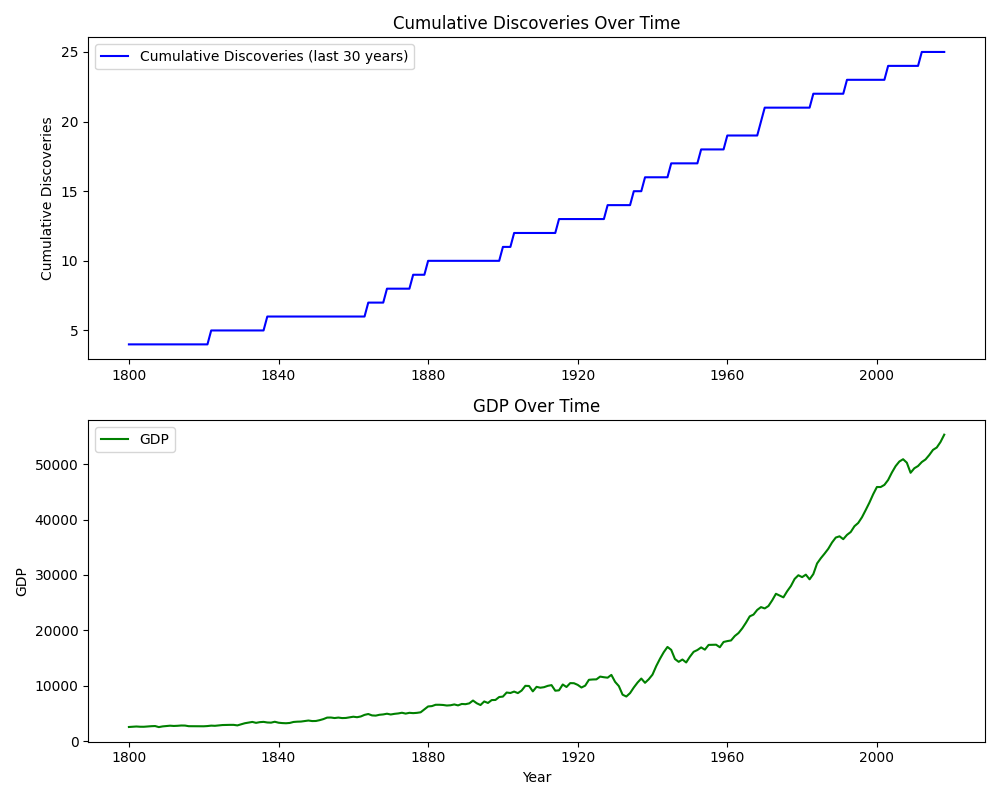
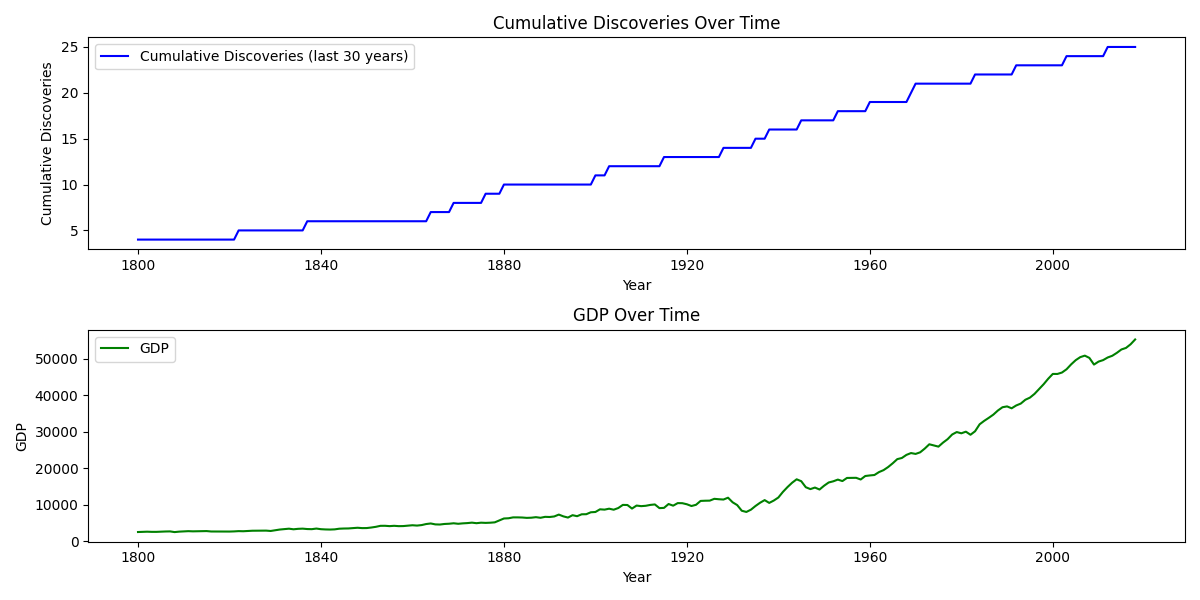
Fixes to analyze and visualize data

diff --git a/src/analyze_data.py b/src/analyze_data.py
@@ -1,59 +1,43 @@
-# src/visualize_data.py
 import pandas as pd
-import matplotlib.pyplot as plt
-import seaborn as sns
+from app import app, db, Discovery, EconomicData
 
-def visualize():
-    # Load the data
-    cumulative_discoveries = pd.read_csv('cumulative_discoveries.csv', index_col=0, parse_dates=True)
-    gdp_data = pd.read_excel('mpd2020.xlsx', sheet_name='Full data')
-    gdp_per_year = gdp_data.set_index('year')['gdppc']
+def analyze():
+    with app.app_context():
+        # Fetch data from the database
+        discoveries_query = db.session.query(Discovery).statement
+        economic_data_query = db.session.query(EconomicData).statement
 
-    # Debug prints
-    print("Cumulative Discoveries:")
-    print(cumulative_discoveries.head())
-    print("GDP Per Year:")
-    print(gdp_per_year.head())
+        discoveries = pd.read_sql(discoveries_query, db.engine)
+        economic_data = pd.read_sql(economic_data_query, db.engine)
 
-    # Align datasets
-    combined_data = pd.merge(cumulative_discoveries, gdp_per_year, left_index=True, right_index=True, how='inner')
-    combined_data.columns = ['cumulative_discoveries', 'gdp']
-    
-    # Debug print combined data
-    print("Combined Data:")
-    print(combined_data.head())
+        # Ensure date formats are consistent
+        discoveries['date'] = pd.to_datetime(discoveries['date'], errors='coerce').dropna()
+        economic_data['year'] = pd.to_datetime(economic_data['year'], format='%Y')
 
-    # Visualization
-    plt.figure(figsize=(12, 6))
+        # Calculate cumulative discoveries over the past 30 years
+        discoveries['year'] = discoveries['date'].dt.year
+        cumulative_discoveries = discoveries.groupby('year').size().rolling(window=30, min_periods=1).sum()
 
-    # Plot cumulative discoveries
-    plt.subplot(2, 1, 1)
-    plt.plot(combined_data['cumulative_discoveries'], label='Cumulative Discoveries (last 30 years)', color='blue')
-    plt.title('Cumulative Discoveries Over Time')
-    plt.xlabel('Year')
-    plt.ylabel('Cumulative Discoveries')
-    plt.legend()
+        # Align cumulative discoveries with GDP data
+        gdp_per_year = economic_data.set_index('year')['gdp']
+        cumulative_discoveries.index = pd.to_datetime(cumulative_discoveries.index, format='%Y')
+        gdp_per_year.index = pd.to_datetime(gdp_per_year.index, format='%Y')
+        
+        cumulative_discoveries = cumulative_discoveries.reindex(gdp_per_year.index, method='ffill').fillna(0)
 
-    # Plot GDP
-    plt.subplot(2, 1, 2)
-    plt.plot(combined_data['gdp'], label='GDP', color='green')
-    plt.title('GDP Over Time')
-    plt.xlabel('Year')
-    plt.ylabel('GDP')
-    plt.legend()
+        # Debug: Print correlation calculation inputs
+        print("\nCumulative Discoveries (last 30 years) per year:")
+        print(cumulative_discoveries)
 
-    plt.tight_layout()
-    plt.savefig('discoveries_and_gdp_over_time.png')
-    plt.show()
+        print("\nGDP per year:")
+        print(gdp_per_year)
 
-    # Scatter plot for correlation
-    plt.figure(figsize=(8, 6))
-    sns.scatterplot(x=combined_data['cumulative_discoveries'], y=combined_data['gdp'])
-    plt.title('Correlation between Cumulative Discoveries and GDP')
-    plt.xlabel('Cumulative Discoveries (last 30 years)')
-    plt.ylabel('GDP')
-    plt.savefig('correlation_scatter_plot.png')
-    plt.show()
+        # Calculate correlation
+        correlation = cumulative_discoveries.corr(gdp_per_year)
+        print(f"\nCorrelation between cumulative discoveries (last 30 years) and GDP: {correlation:.2f}")
+
+        # Save results to CSV for further inspection
+        cumulative_discoveries.to_csv('cumulative_discoveries.csv', header=['cumulative_discoveries'])
 
 if __name__ == '__main__':
-    visualize()
+    analyze()

diff --git a/src/visualize_data.py b/src/visualize_data.py
@@ -1,5 +1,3 @@
-# visualize_data.py
-
 import pandas as pd
 import matplotlib.pyplot as plt
 import statsmodels.api as sm
@@ -12,7 +10,30 @@ def visualize():
     # Merge datasets on the date/year
     combined = discoveries.merge(gdp_per_year, left_index=True, right_index=True, how='inner')
 
-    # Create scatter plot
+    # Visualization 1: Cumulative Discoveries and GDP Over Time
+    plt.figure(figsize=(12, 6))
+
+    # Plot cumulative discoveries
+    plt.subplot(2, 1, 1)
+    plt.plot(combined.index, combined['cumulative_discoveries'], label='Cumulative Discoveries (last 30 years)', color='blue')
+    plt.title('Cumulative Discoveries Over Time')
+    plt.xlabel('Year')
+    plt.ylabel('Cumulative Discoveries')
+    plt.legend()
+
+    # Plot GDP
+    plt.subplot(2, 1, 2)
+    plt.plot(combined.index, combined['gdppc'], label='GDP', color='green')
+    plt.title('GDP Over Time')
+    plt.xlabel('Year')
+    plt.ylabel('GDP')
+    plt.legend()
+
+    plt.tight_layout()
+    plt.savefig('discoveries_and_gdp_over_time.png')
+    plt.show()
+
+    # Visualization 2: Scatter plot for correlation
     plt.figure(figsize=(10, 6))
     plt.scatter(combined['cumulative_discoveries'], combined['gdppc'], label='Data Points')
 
